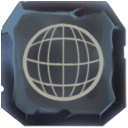
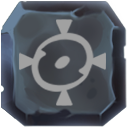
Updates to UI.

Changed region(s): [[0.125, 0.125, 0.8438, 0.8438]]

diff --git a/win/win32/winclisrv/GnollHackClient/GnollHackClient/Pages/Game/GamePage.xaml.cs b/win/win32/winclisrv/GnollHackClient/GnollHackClient/Pages/Game/GamePage.xaml.cs
@@ -1135,7 +1135,7 @@ namespace GnollHackClient.Pages.Game
                     switch (data.style)
                     {
                         case (int)context_menu_styles.CONTEXT_MENU_STYLE_CLOSE_DISPLAY:
-                            icon_string = "GnollHackClient.Assets.UI.yes.png";
+                            icon_string = "GnollHackClient.Assets.UI.exit-to-map.png";
                             break;
                         default:
                             icon_string = "GnollHackClient.Assets.UI.no.png";
